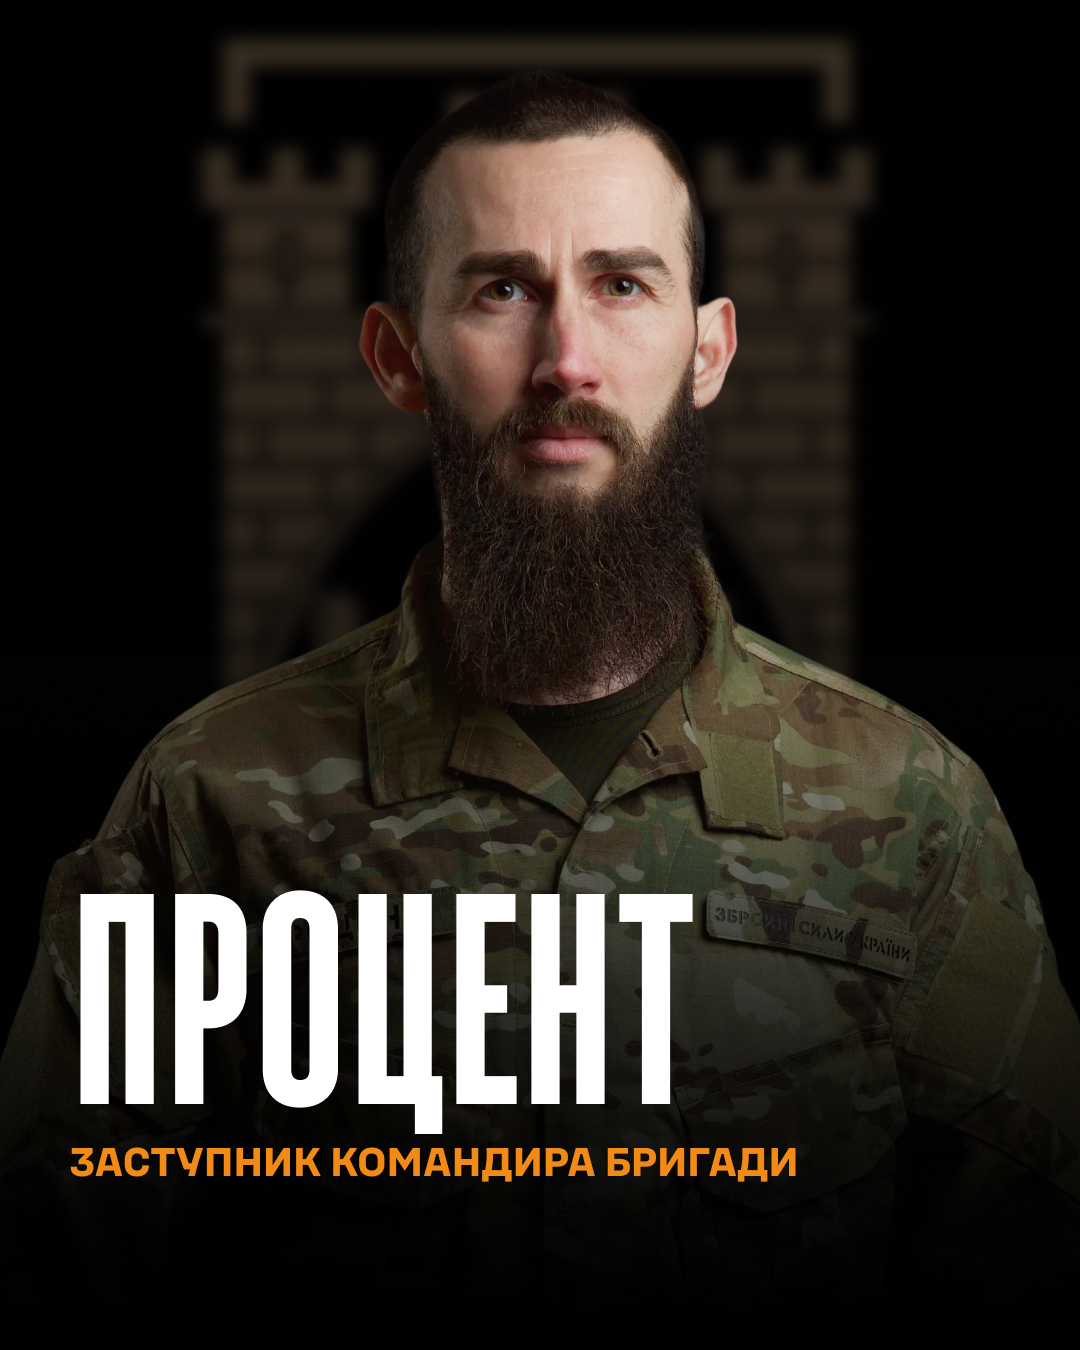
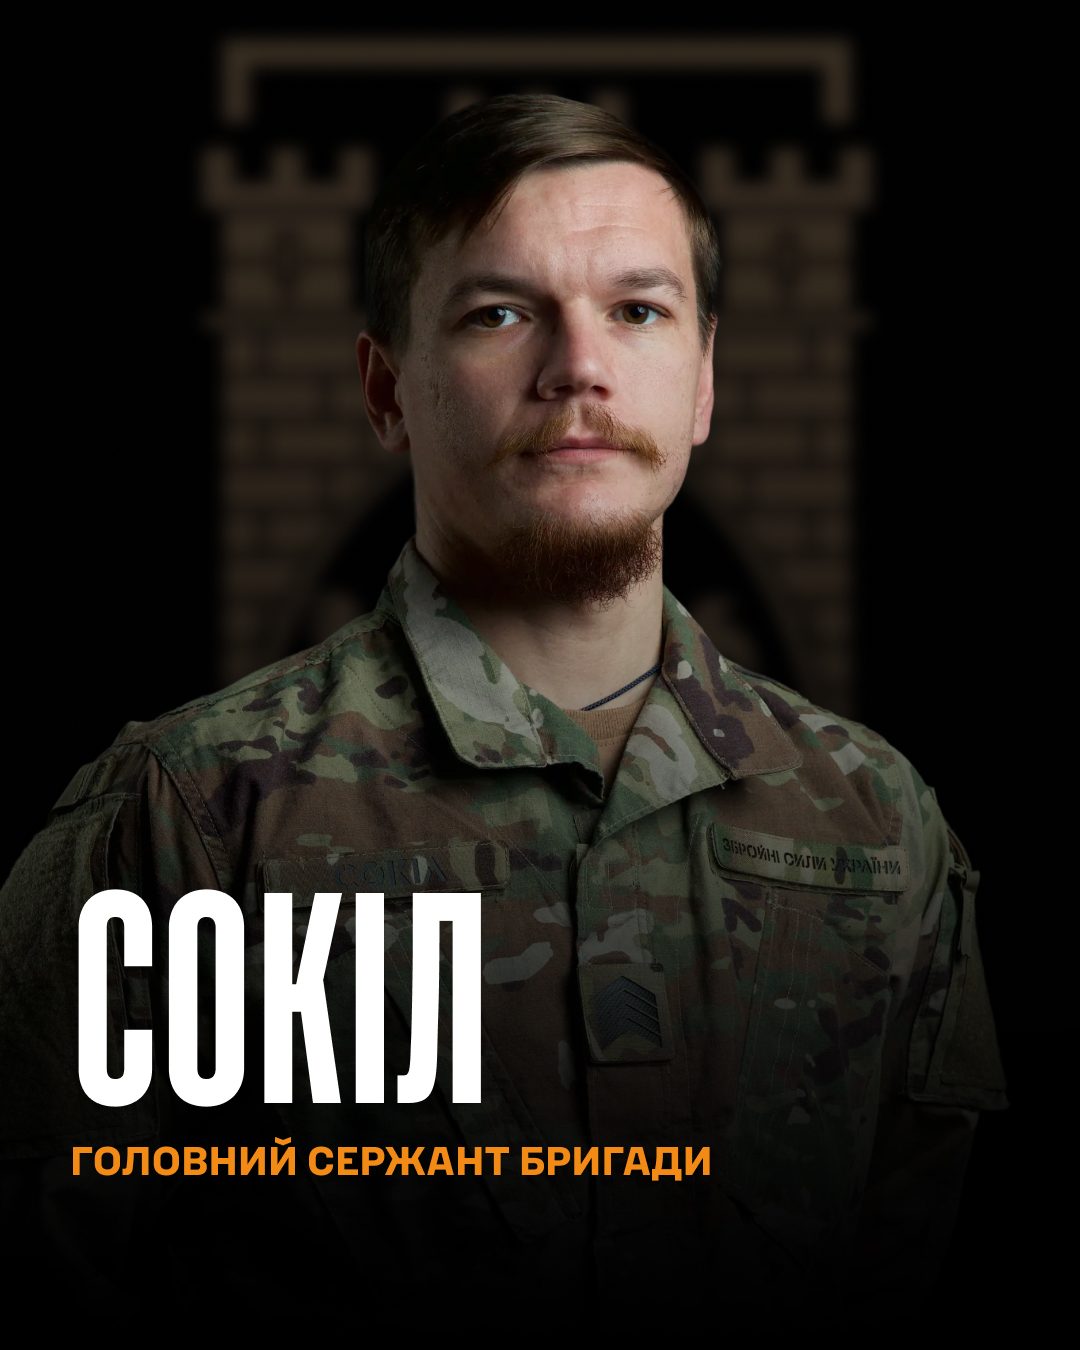
Оновлення карток командирів (СОКІЛ, БАРБЕР, МУЛЬТИК), зменшений шрифт кнопки Як приєднатись?

Changed region(s): [[0.0, 0.0622, 1.0, 0.8711], [0.7639, 0.7467, 0.7944, 0.7778]]

diff --git a/index.html b/index.html
@@ -1108,6 +1108,14 @@ section.about ~ section {
                 <img src="images/commander-09.png" alt="ЕЙВАР — Начальник БПС бригади" loading="lazy">
                 <figcaption class="visually-hidden">ЕЙВАР — Начальник БПС бригади</figcaption>
             </figure>
+            <figure class="contact-card">
+                <img src="images/commander-10.png" alt="БАРБЕР — Начальник групи РЕБ бригади" loading="lazy">
+                <figcaption class="visually-hidden">БАРБЕР — Начальник групи РЕБ бригади</figcaption>
+            </figure>
+            <figure class="contact-card">
+                <img src="images/commander-11.png" alt="МУЛЬТИК — Командир батальйону безпілотних систем" loading="lazy">
+                <figcaption class="visually-hidden">МУЛЬТИК — Командир батальйону безпілотних систем</figcaption>
+            </figure>
         </div>
         </div>
     </div>

diff --git a/index-en.html b/index-en.html
@@ -1108,6 +1108,14 @@ section.about ~ section {
                 <img src="images/commander-09.png" alt="Eyvar — Head of UAV Brigade" loading="lazy">
                 <figcaption class="visually-hidden">Eyvar — Head of UAV Brigade</figcaption>
             </figure>
+            <figure class="contact-card">
+                <img src="images/commander-10.png" alt="Barber — Head of EW Group of the Brigade" loading="lazy">
+                <figcaption class="visually-hidden">Barber — Head of EW Group of the Brigade</figcaption>
+            </figure>
+            <figure class="contact-card">
+                <img src="images/commander-11.png" alt="Multyk — Battalion Commander of Unmanned Systems" loading="lazy">
+                <figcaption class="visually-hidden">Multyk — Battalion Commander of Unmanned Systems</figcaption>
+            </figure>
         </div>
         </div>
     </div>

diff --git a/css/index.css b/css/index.css
@@ -802,7 +802,7 @@ p {
 }
 
 button.header__btn {
-    font-size: 12px;
+    font-size: 11px;
     height: 32px;
     width: 175px;
     gap: 17px;
@@ -817,6 +817,11 @@ button.header__btn {
     position: absolute;
     left: 151px;
     top: 3px;
+}
+
+/* Зменшений шрифт для кнопок "Як приєднатись?" */
+button[data-bs-target="#contactFormModal"] {
+    font-size: 11px;
 }
 
 #contactFormModal .modal-header .btn-close {
